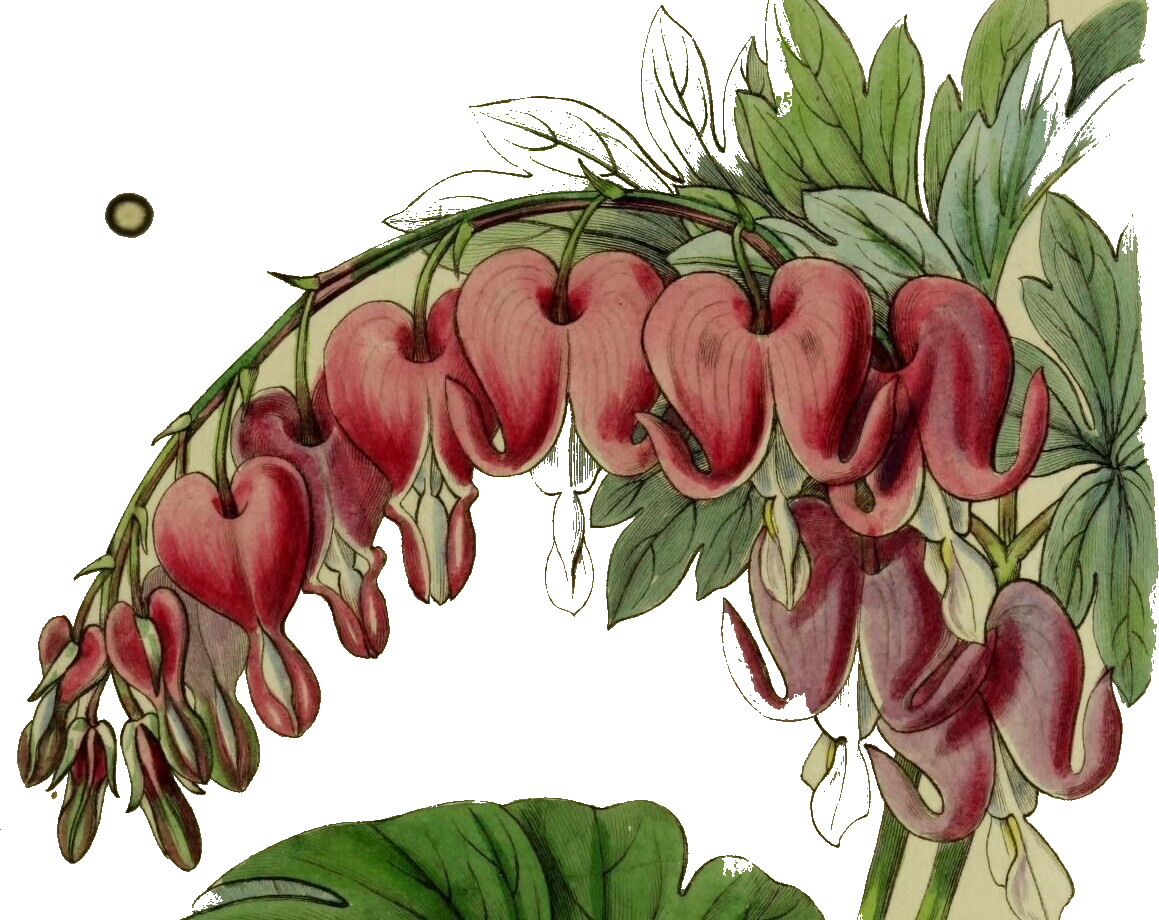
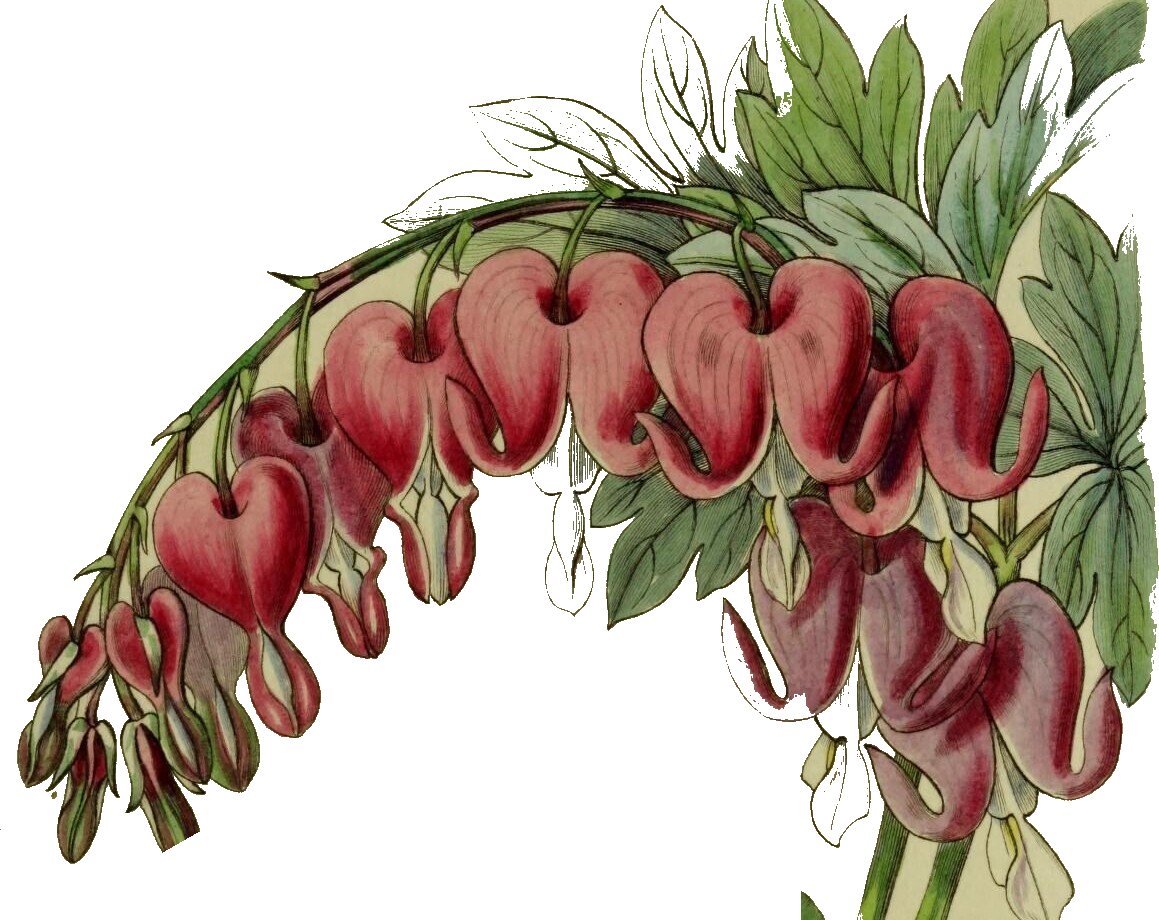
Remove dot and bottom leaf from specimen, nest "I'm Marissa" into it
Erased the printer's registration dot and the bottom leaf from the
bleeding heart plate -- precise alpha-channel masking in Pillow
(ImageMagicks draw-based alpha painting was not actually touching the
alpha channel despite reporting success, so switched tools), verified
by direct pixel sampling across the erase zones plus a scan of the
whole region for leftover opacity before calling it done.

"I'm Marissa." now sits inside the image's own empty top-left
corner (vacated by the removed dot) instead of as a separate line
below it, for a more unified feel between the illustration and the
intro text. Only above the sm breakpoint, where the clear space is
wide enough -- below that it stays in normal flow under the image, to
avoid the text colliding with the stem on narrow screens.

Changed region(s): [[0.1242, 0.8522, 0.7144, 1.0], [0.0932, 0.213, 0.1553, 0.2739]]

diff --git a/src/components/Hero.tsx b/src/components/Hero.tsx
@@ -29,13 +29,16 @@ const Hero: React.FC<HeroProps> = ({ className }) => {
       <ImprintedStar className="hidden sm:block absolute top-32 right-10 w-5" rotate={22} />
 
       <FadeIn>
-        <div className="w-full max-w-[720px] mb-4 sm:mb-6 pointer-events-none select-none">
+        <div className="relative w-full max-w-[720px] mb-4 sm:mb-6">
           <img
             src="/images/bleeding-heart-specimen.png"
             alt="A 19th-century hand-coloured botanical illustration of Dielytra spectabilis (bleeding heart), its arching stem of heart-shaped flowers draped overhead"
-            className="w-full h-auto"
+            className="w-full h-auto pointer-events-none select-none"
             loading="lazy"
           />
+          <p className="mt-2 sm:absolute sm:top-5 sm:left-2 sm:mt-0 font-serif italic text-2xl md:text-3xl text-ink">
+            I'm Marissa.
+          </p>
           <p className="mt-1 font-mono text-[10px] uppercase tracking-[0.07em] text-slateline">
             Dielytra spectabilis — Journal of the Horticultural Society of London, vol. 2 (1847)
           </p>
@@ -44,12 +47,6 @@ const Hero: React.FC<HeroProps> = ({ className }) => {
 
       <div className="grid grid-cols-1 md:grid-cols-[1.6fr_1fr] gap-12">
       <div className="flex flex-col gap-7">
-        <FadeIn>
-          <p className="font-serif italic text-2xl md:text-3xl text-ink">
-            I'm Marissa.
-          </p>
-        </FadeIn>
-
         <FadeIn delay={80}>
           <h1 className="font-serif font-light leading-[1.05] tracking-[-0.02em] text-[clamp(48px,7.2vw,104px)] max-w-[16ch] text-ink">
             Bringing a little <em className="italic text-cobalt">humanity</em>{' '}
